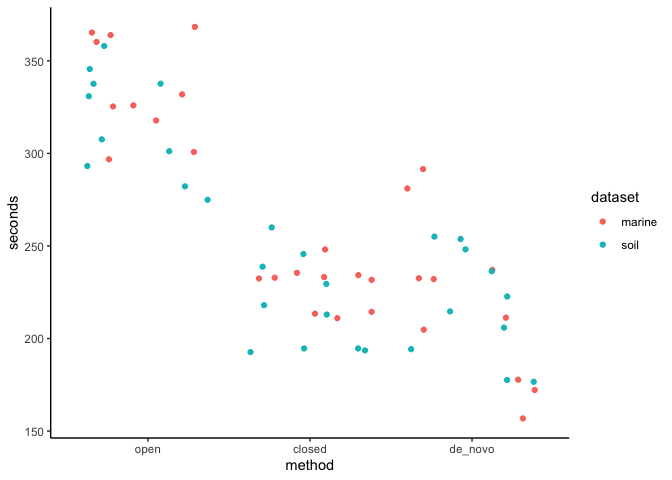
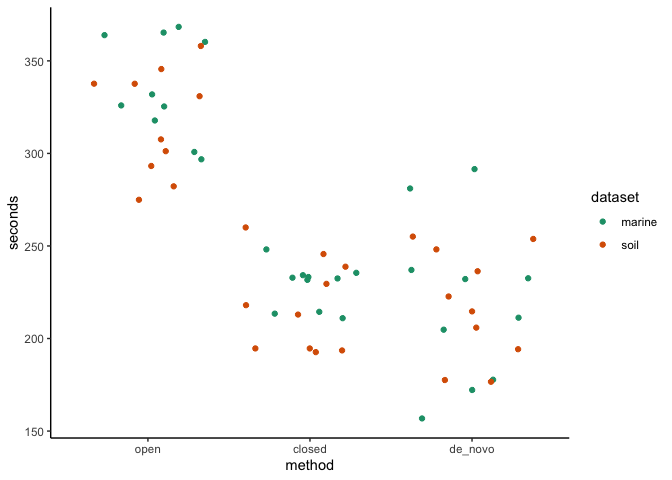
Pick color palette and use arg forwarding

diff --git a/exploratory/2020/README.md b/exploratory/2020/README.md
@@ -6,6 +6,12 @@ Exploratory Plots
 library(here)
 library(tidyverse)
 theme_set(theme_classic())
+color_palette <- RColorBrewer::brewer.pal(4, "Dark2")
+dataset_colors <- list(human = color_palette[[3]],
+                       marine = color_palette[[1]],
+                       mouse = color_palette[[4]],
+                       soil = color_palette[[2]]
+                       )
 ```
 
 # Fitting datasets to a reference database vs *de novo* clustering
@@ -15,10 +21,11 @@ relevel_method <- function(df) {
   df %>%
     mutate(method = fct_relevel(method, c("open", "closed", "de_novo")))
 }
-plot_jitter <- function(df, y) {
-  df %>% group_by(dataset, method) %>% 
-      ggplot(aes(x=method, y={{ y }}, color=dataset)) +
-  geom_jitter()
+plot_jitter <- function(.df, ...) {
+  .df %>% 
+    ggplot(aes(...)) +
+    geom_jitter() +
+    scale_color_manual(values=dataset_colors)
 }
 ```
 
@@ -26,7 +33,9 @@ plot_jitter <- function(df, y) {
 sensspec <- read_tsv(here('subworkflows/2_fit_reference_db/results/sensspec.txt')) %>% 
   relevel_method()
 sensspec %>% 
-  plot_jitter(mcc)
+  group_by(dataset, method) %>% 
+  plot_jitter(x = method, y = mcc, color = dataset) +
+  ylim(0, 1)
 ```
 
 ![](figures/fit_db_sensspec-1.png)<!-- -->
@@ -35,7 +44,8 @@ sensspec %>%
 benchmarks <- read_tsv(here('subworkflows/2_fit_reference_db/results/benchmarks.txt')) %>% 
   relevel_method
 benchmarks %>% 
-  plot_jitter(s) +
+  group_by(dataset, method) %>% 
+  plot_jitter(x = method, y = s, color = dataset) +
   labs(y='seconds')
 ```
 
@@ -44,8 +54,7 @@ benchmarks %>%
 ``` r
 fractions <- read_tsv(here('subworkflows/2_fit_reference_db/results/fraction_reads_mapped.txt'))
 fractions %>% 
-  ggplot(aes(x=dataset, y=fraction_mapped, color=dataset)) +
-  geom_jitter() +
+  plot_jitter(x=dataset, y=fraction_mapped, color=dataset) +
   ylim(0, 1)
 ```
 
